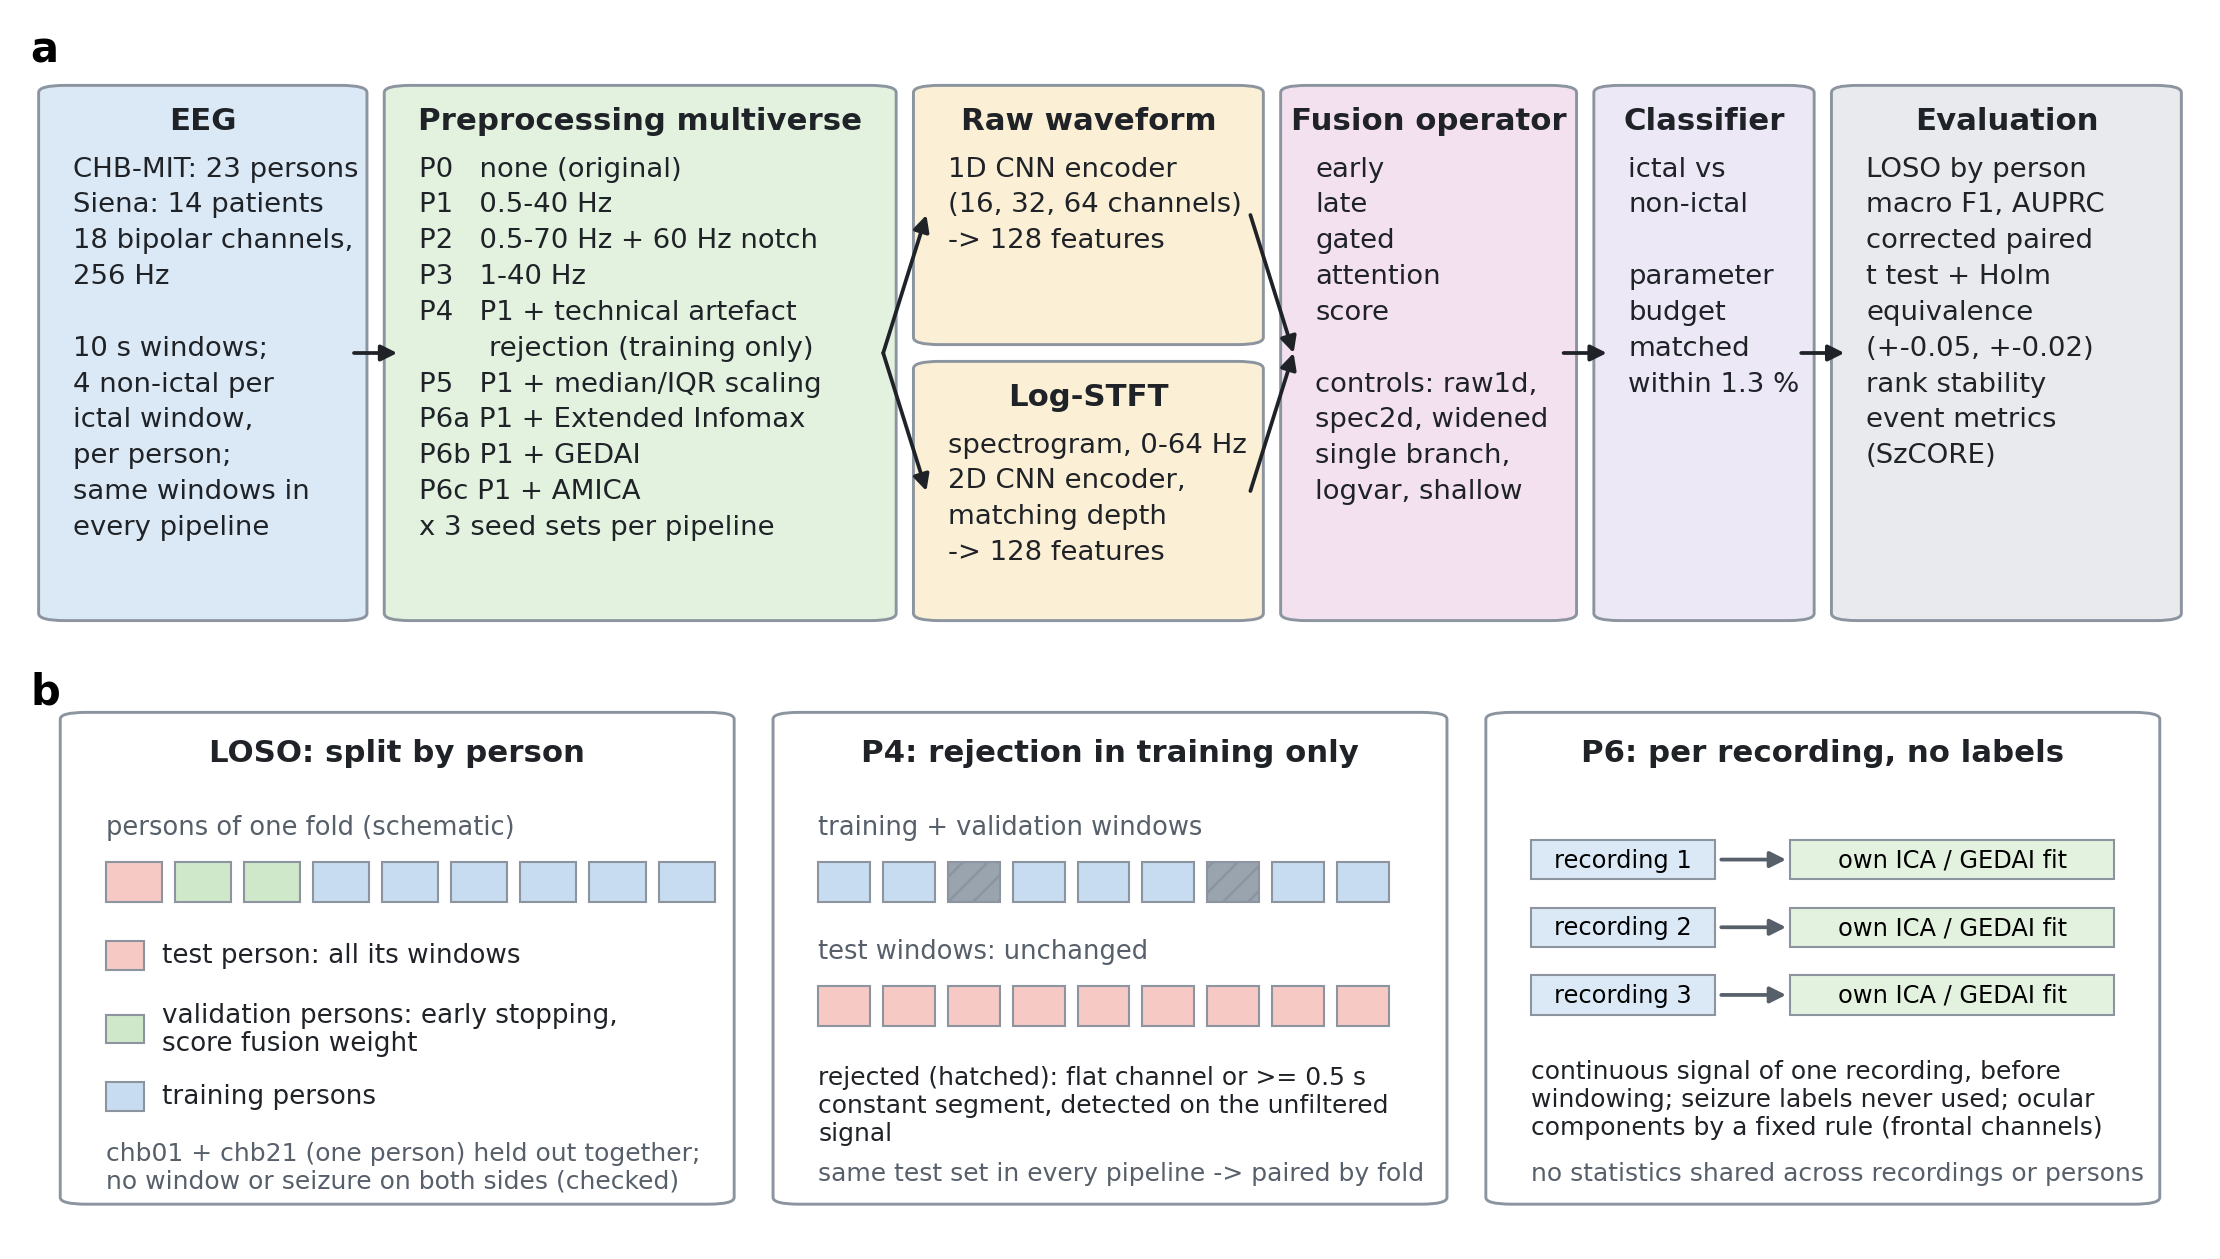
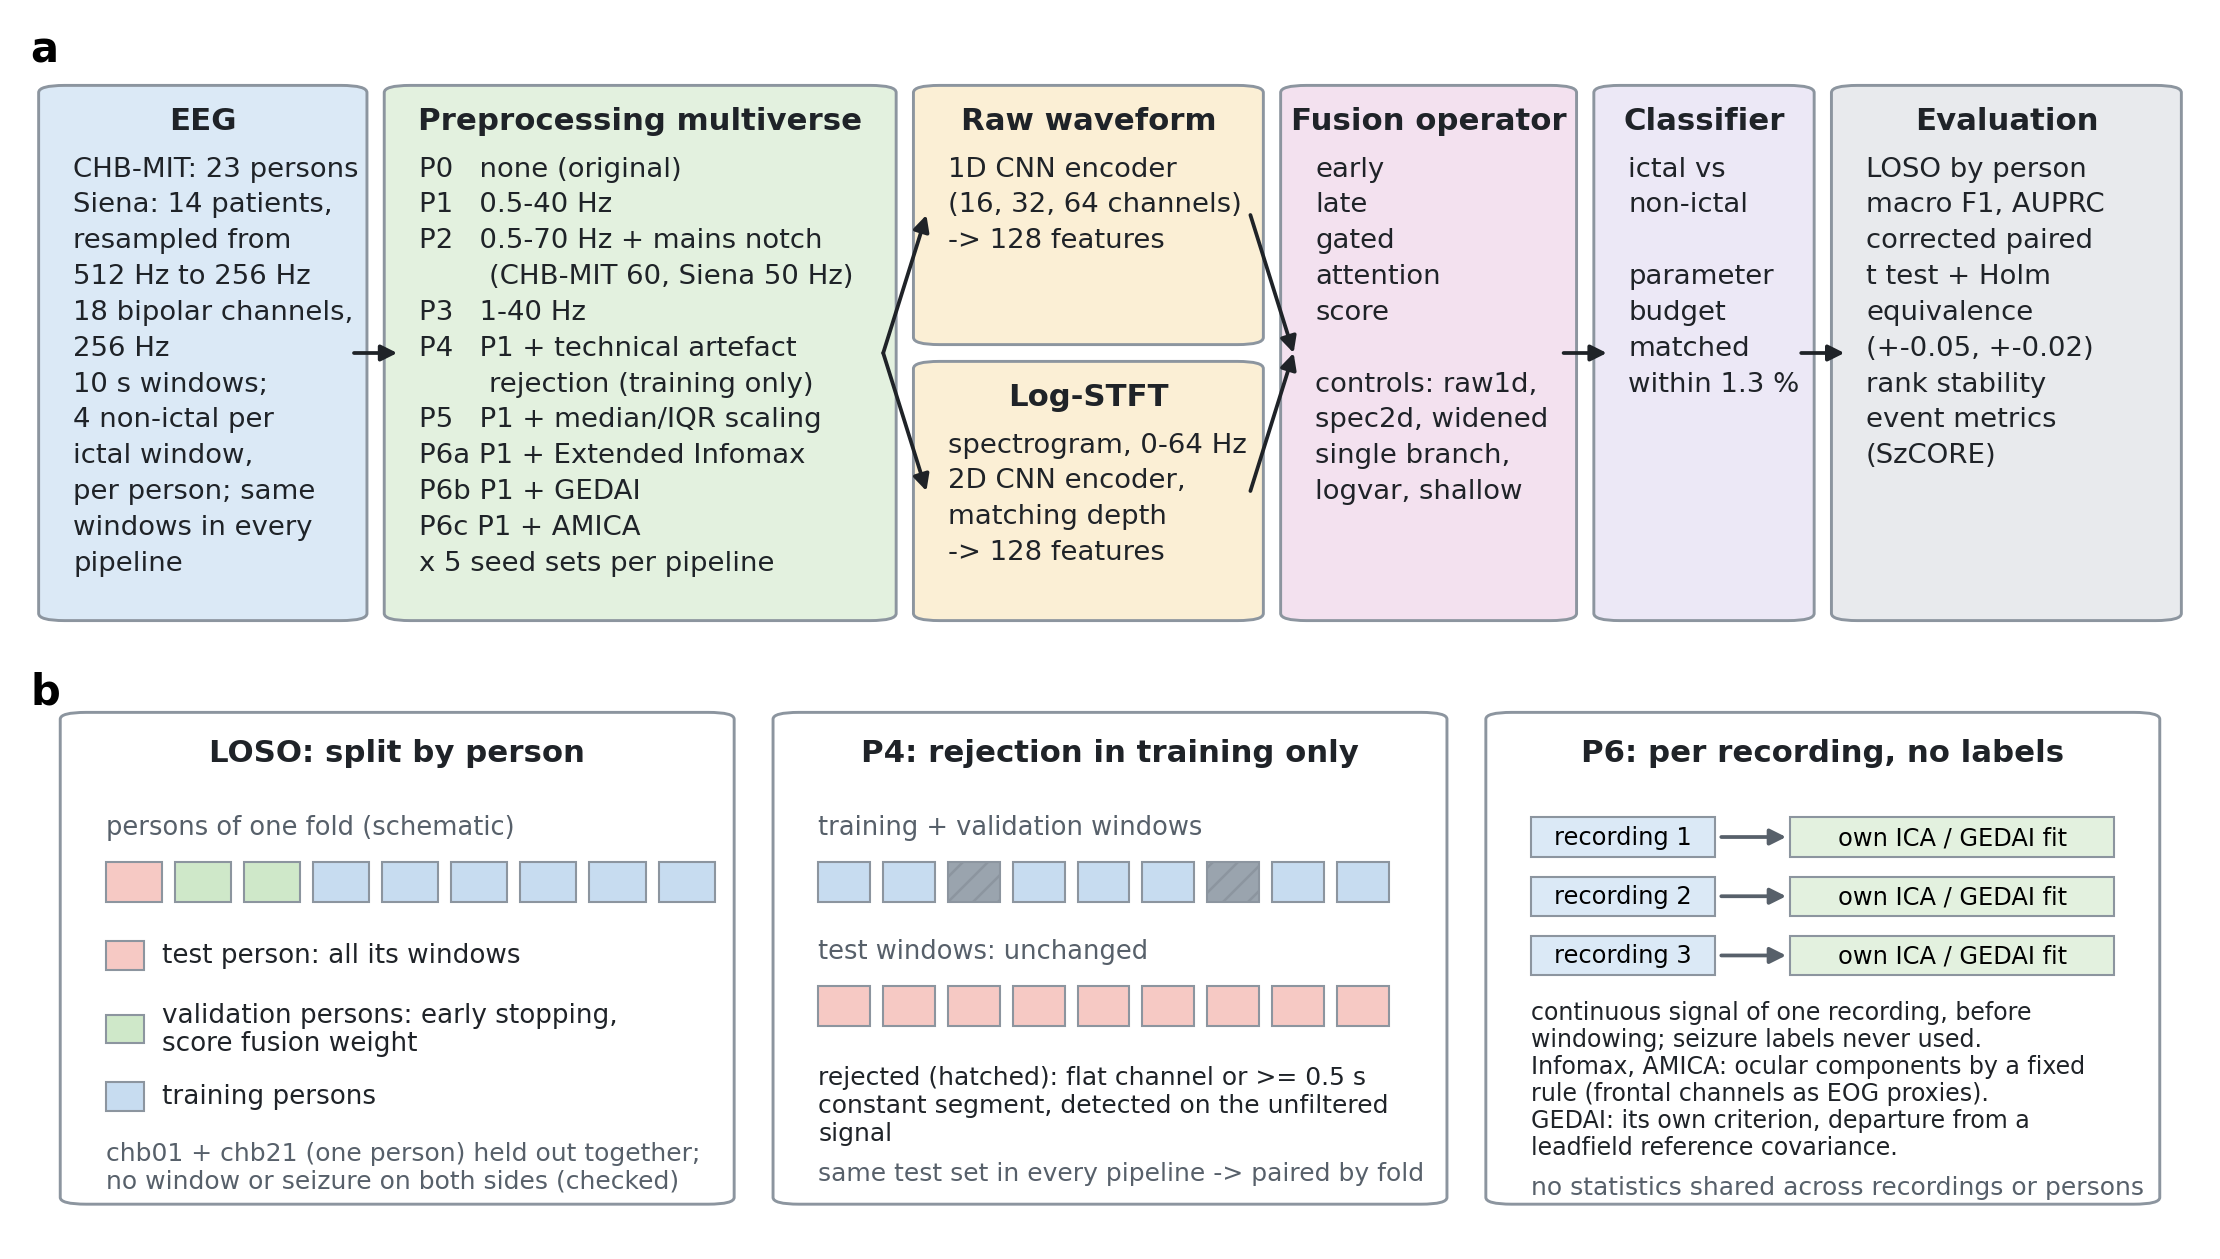
Figure 1: five seed sets, Siena resampling, mains notch per dataset, GEDAI criterion
- "x 5 seed sets per pipeline" (the manuscript text still says three)
- EEG box: Siena resampled from 512 Hz to 256 Hz
- P2: mains notch, 60 Hz on CHB-MIT and 50 Hz on Siena (b9f3364)
- P6 panel: Infomax/AMICA component rule and GEDAI's own criterion
  (departure from a leadfield reference covariance) stated separately

Changed region(s): [[0.6838, 0.6505, 0.9635, 0.9603], [0.1865, 0.1859, 0.373, 0.4647], [0.0311, 0.1859, 0.1554, 0.4647]]

diff --git a/src/make_figure1.py b/src/make_figure1.py
@@ -59,14 +59,14 @@ def panel_a(ax):
     ax.text(0.0, 1.0, "a", fontsize=10, fontweight="bold", va="top")
     y, h = 0.02, 0.88
     box(ax, 0.01, y, 0.14, h, C["data"], "EEG",
-        ["CHB-MIT: 23 persons", "Siena: 14 patients", "18 bipolar channels,", "256 Hz", "",
-         "10 s windows;", "4 non-ictal per", "ictal window,", "per person;",
-         "same windows in", "every pipeline"])
+        ["CHB-MIT: 23 persons", "Siena: 14 patients,", "resampled from", "512 Hz to 256 Hz",
+         "18 bipolar channels,", "256 Hz", "10 s windows;", "4 non-ictal per", "ictal window,",
+         "per person; same", "windows in every", "pipeline"])
     box(ax, 0.17, y, 0.225, h, C["prep"], "Preprocessing multiverse",
         ["P0   none (original)", "P1   0.5-40 Hz", "P2   0.5-70 Hz + mains notch",
-         "P3   1-40 Hz", "P4   P1 + technical artefact", "        rejection (training only)",
+         "        (CHB-MIT 60, Siena 50 Hz)", "P3   1-40 Hz", "P4   P1 + technical artefact", "        rejection (training only)",
          "P5   P1 + median/IQR scaling", "P6a P1 + Extended Infomax",
-         "P6b P1 + GEDAI", "P6c P1 + AMICA", "x 3 seed sets per pipeline"])
+         "P6b P1 + GEDAI", "P6c P1 + AMICA", "x 5 seed sets per pipeline"])
     hh = (h - 0.04) / 2
     box(ax, 0.415, y + hh + 0.04, 0.15, hh, C["rep"], "Raw waveform",
         ["1D CNN encoder", "(16, 32, 64 channels)", "-> 128 features"])
@@ -147,19 +147,22 @@ def panel_b(ax):
 
     # (3) P6
     x2 = 0.695
-    for k, (lab, yy) in enumerate((("recording 1", 0.62), ("recording 2", 0.50),
-                                   ("recording 3", 0.38))):
+    for k, (lab, yy) in enumerate((("recording 1", 0.66), ("recording 2", 0.555),
+                                   ("recording 3", 0.45))):
         ax.add_patch(Rectangle((x2, yy), 0.085, 0.07, fc=C["data"], ec=LINE, lw=0.5))
         ax.text(x2 + 0.0425, yy + 0.035, lab, fontsize=5.8, ha="center", va="center")
         arrow(ax, x2 + 0.088, yy + 0.035, x2 + 0.118, yy + 0.035, color=MUTE)
         ax.add_patch(Rectangle((x2 + 0.12, yy), 0.15, 0.07, fc=C["prep"], ec=LINE, lw=0.5))
         ax.text(x2 + 0.195, yy + 0.035, "own ICA / GEDAI fit", fontsize=5.8, ha="center",
                 va="center")
-    ax.text(x2, 0.23, "continuous signal of one recording, before\n"
-            "windowing; seizure labels never used; ocular\n"
-            "components by a fixed rule (frontal channels)", fontsize=6.0, color=INK,
-            va="center")
-    ax.text(x2, 0.10, "no statistics shared across recordings or persons", fontsize=6.0,
+    ax.text(x2, 0.265, "continuous signal of one recording, before\n"
+            "windowing; seizure labels never used.\n"
+            "Infomax, AMICA: ocular components by a fixed\n"
+            "rule (frontal channels as EOG proxies).\n"
+            "GEDAI: its own criterion, departure from a\n"
+            "leadfield reference covariance.", fontsize=5.7, color=INK, va="center",
+            linespacing=1.15)
+    ax.text(x2, 0.075, "no statistics shared across recordings or persons", fontsize=6.0,
             color=MUTE, va="center")
 
 
